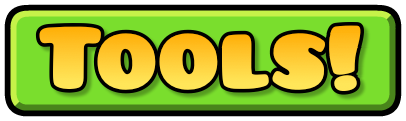
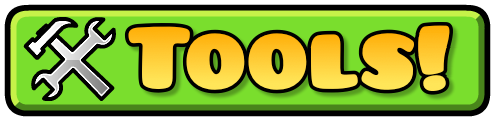
changed some stuff

diff --git a/index.html b/index.html
@@ -3,7 +3,7 @@
 <head>
     <meta charset="UTF-8">
     <meta name="viewport" content="width=device-width, initial-scale=1.0">
-    <title>SapphixCatt - Websites</title>
+    <title>SapphixCatt Websites</title>
     <link rel="icon" type="image/png" href="img/SapphixCatt_Cube.png">
     <link rel="stylesheet" href="btnAnim.css">
     <style>
@@ -83,13 +83,14 @@
             width: 75px;
         }
 
-        /* Top Left Tools Button Container (Scaled down by 60% to 120px) */
+        /* Bottom Middle Tools Button Container (Enlarged to 350px) */
         .tools-btn-container {
             position: fixed;
-            top: 15px;
-            left: 15px;
+            bottom: 20px;
+            left: 50%;
+            transform: translateX(-50%);
             z-index: 20;
-            width: 120px;
+            width: 350px;
         }
 
         /* Top Right Flood History Button Container (Enlarged) */
@@ -185,7 +186,7 @@
         <img src="img/GJ_topBar_001.png" alt="Top Bar">
     </div>
 
-    <!-- Top Left Tools Button -->
+    <!-- Bottom Middle Tools Button -->
     <div class="tools-btn-container">
         <div id="toolsBtn" class="btn">
             <img src="img/Tools_BTN.png" alt="Tools">
@@ -373,7 +374,7 @@
             window.open('https://gdbrowser.com/u/sapphixcatt', '_blank');
         });
 
-        // Top Left Tools Button: Opens Tools/ folder without showing index.html in the URL
+        // Bottom Middle Tools Button: Opens Tools/ folder without showing index.html in the URL
         setupGDButton('toolsBtn', () => {
             window.location.href = 'Tools/';
         });
